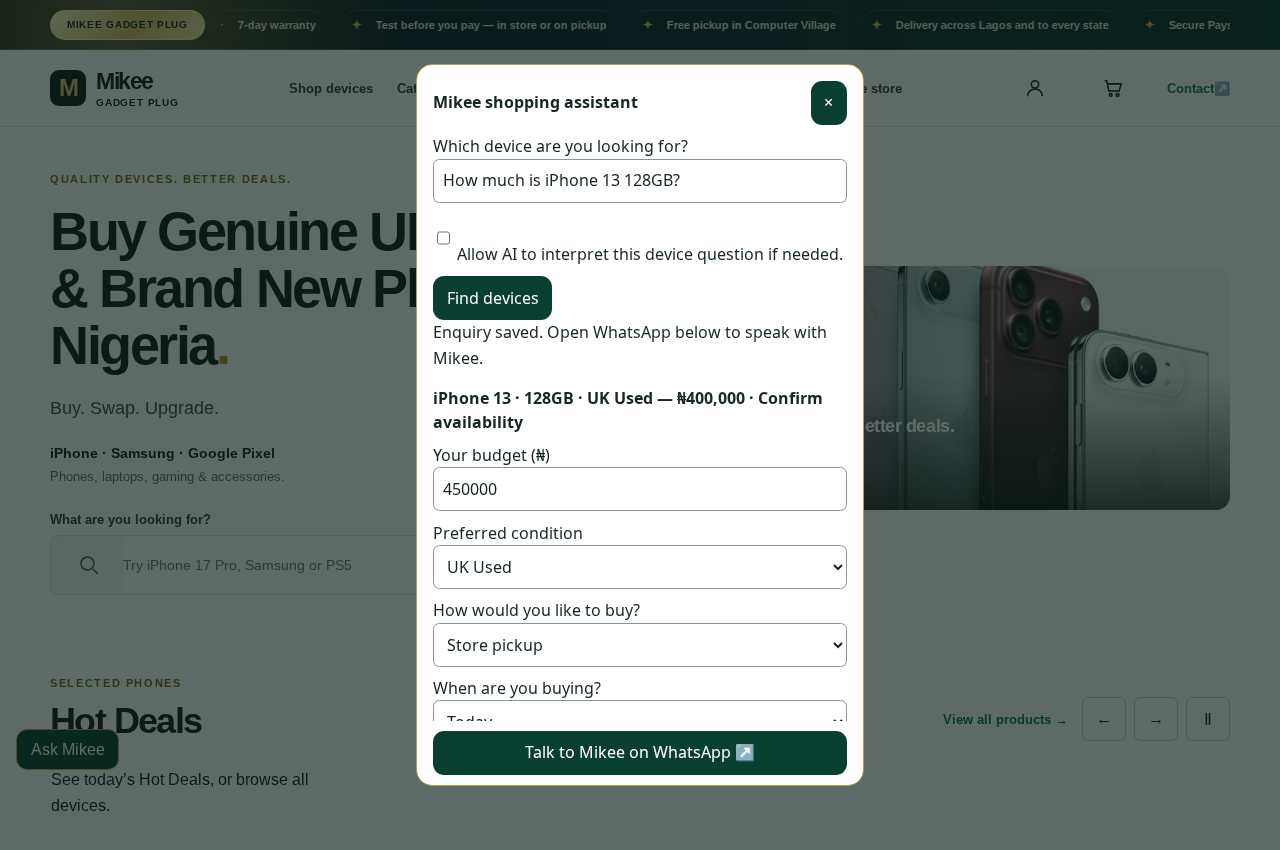
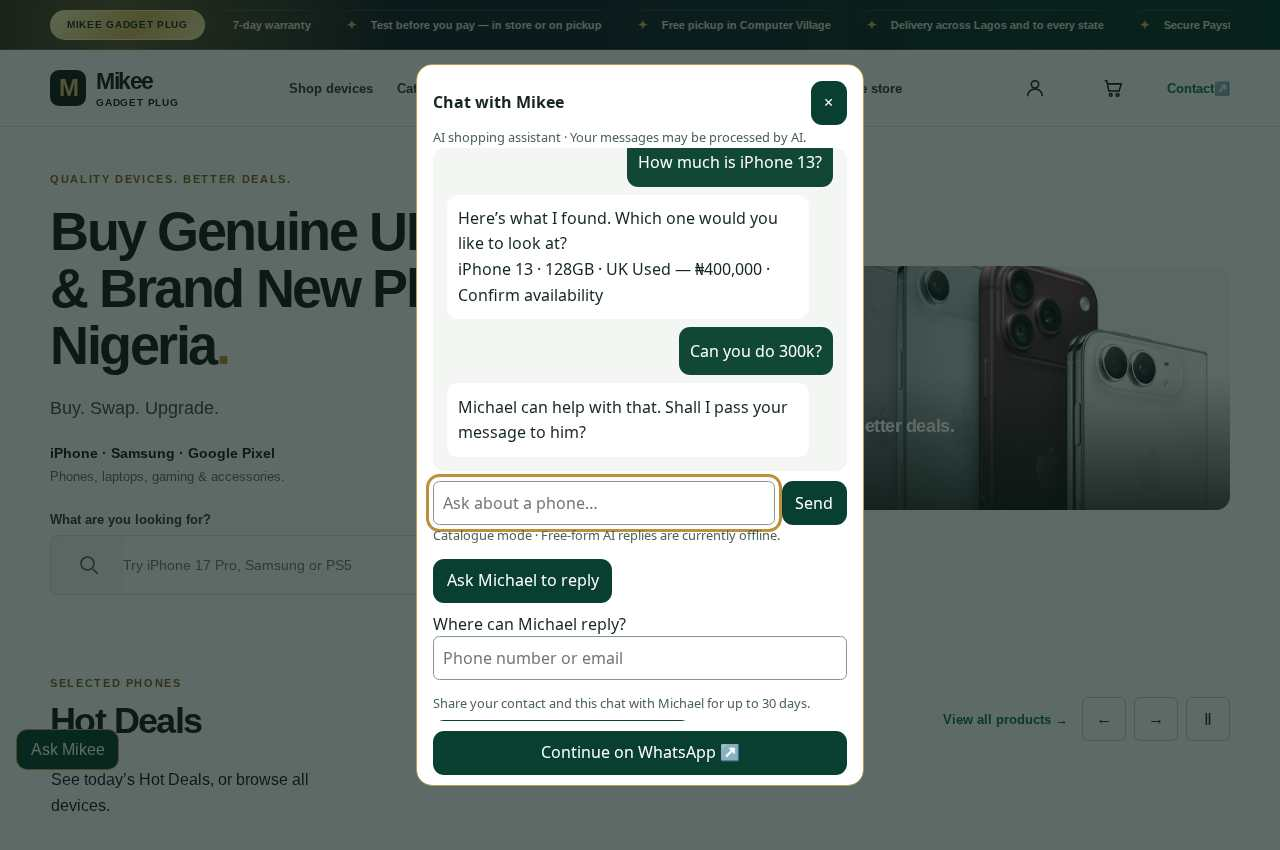
Replace qualification form with conversational shopping and owner callback requests

Changed region(s): [[0.3125, 0.0918, 0.6875, 0.9176], [0.875, 0.4282, 0.9062, 0.4588]]

diff --git a/assets/admin.js b/assets/admin.js
@@ -219,7 +219,7 @@ leadPanel.ontoggle=async()=>{
    const article=document.createElement('article'),title=document.createElement('strong'),info=document.createElement('p'),select=document.createElement('select');
    const q=row.enquiry;
    title.textContent=q.name+' · '+row.tier+' · '+row.score+'/100';
-   info.textContent=[new Date(row.created_at).toLocaleString(),q.query,q.item.label,q.colour,q.item.stock,money(q.item.price),q.condition,q.mode,q.timeline,'Budget '+money(q.budget),q.contact].filter(Boolean).join(' | ');
+   info.textContent=[new Date(row.created_at).toLocaleString(),q.query,q.item?.label,q.colour,q.item?.stock,q.item && money(q.item.price),q.condition,q.mode,q.timeline,'Budget '+money(q.budget),q.contact,...(q.messages||[]).map(m=>m.role+': '+m.content)].filter(Boolean).join(' | ');
    select.setAttribute('aria-label','Enquiry status for '+q.name);
    for(const value of ['new','contacted','won','closed'])select.add(new Option(value,value,false,value===row.status));
    select.onchange=async()=>{select.disabled=true;try{await api('/api/admin/manage?kind=sales-leads',{method:'PATCH',body:JSON.stringify({id:row.id,status:select.value})});row.status=select.value;}catch(e){select.value=row.status;message(e.message,'error');}finally{select.disabled=false;}};

diff --git a/assets/sales-widget.css b/assets/sales-widget.css
@@ -10,3 +10,10 @@
 .sales-chat footer{position:sticky;bottom:-1rem;padding:.65rem 0}
 .sales-chat footer a{text-align:center;width:100%}
 .sales-chat [hidden]{display:none}
+.sales-thread{height:clamp(9rem,38dvh,22rem);overflow-y:auto;padding:.35rem;background:#f4f6f3;border-radius:.75rem}
+.sales-thread p{white-space:pre-line;overflow-wrap:anywhere;margin:.5rem;padding:.7rem;border-radius:.7rem;max-width:90%;background:white}
+.sales-thread .bubble-user{margin-left:auto;background:#104835;color:white;width:fit-content}
+.sales-compose{display:flex;gap:.4rem;margin-top:.65rem}
+.sales-compose input{min-width:0}
+.sales-mode,.sales-chat small{font-size:.8rem;color:#4b6258}
+.sales-share button{margin-top:.4rem}

diff --git a/docs/sales-assistant/README.md b/docs/sales-assistant/README.md
@@ -1,12 +1,11 @@
-# Sales assistant preview
-Open the storefront, select **Ask Mikee**, search a device, choose a catalogue variant, and enter buying preferences. WhatsApp works before qualification and opens a draft on the existing business number. The customer sends it. Saving to the admin inbox requires explicit consent. The owner can review the original device question, chosen answer and qualification details in **Admin → Sales assistant enquiries** and update the status.
+# Ask Mikee
+Open **Ask Mikee** and type a question in English or Pidgin. Chat history stays in the open page. The server uses up to 16 recent messages per reply. The model handles tone and follow-ups. Prices and availability are shown in cards from the shop catalogue. Customers can open WhatsApp at any time.
 
-## Preview configuration
-Use an isolated Supabase preview database with existing store migrations, a catalogue, owner access and pg_cron available. Apply supabase/migrations/20261121183000_sales_assistant.sql there. Use the existing server-only SUPABASE_URL, SUPABASE_SERVICE_ROLE_KEY and SHOP_ORIGIN in the preview environment. Check the hourly mikee-sales-retention job in cron.job and its run history. It removes 30-day-old leads at the next hourly run.
+## Preview setup
+Use an isolated Supabase database with the shop schema and its catalogue. Apply supabase/migrations/20261121183000_sales_assistant.sql and verify the pg_cron retention job. Configure the existing server-only SUPABASE_URL, SUPABASE_SERVICE_ROLE_KEY and SHOP_ORIGIN in Vercel Preview. The assistant reuses the existing catalogue function.
 
-The default external AI spend is zero. After separate spending approval only, configure OPENAI_API_KEY and SALES_AI_APPROVED=true as server-only environment variables. A shopper must also opt in. Only the initial question is sent. The fixed model is gpt-4.1-nano, with a 180-character input, 32 output tokens and a shared lifetime allowance of 100 attempted requests per database. Never reset the counter as part of routine deployment. Before enabling, verify provider pricing, exchange rate, prepaid minimum and any hosting charges fit the remaining ₦10,000 budget. Keep the feature off if these costs are unknown. Search, qualification and WhatsApp work with AI off.
+AI is off until spending approval. To enable it after approval, configure OPENAI_API_KEY and SALES_AI_APPROVED=true on the server. The fixed model is gpt-4.1-nano. Each chat completion has a 160-output-token ceiling and the database atomically caps the pilot at 100 attempted completions. Do not reset the counter automatically. Verify the account's remaining prepaid balance, exchange rate and charges before activation. If AI or the preview database is unavailable, the widget labels its catalogue-only fallback.
 
-The server uses shop_deal_catalogue and the storefront price function for every quote and rechecks the variant and price at save. Unknown stock is shown as “Confirm availability”. Lead scores combine a selected device (25), budget covering its price (25), condition preference (10) and timeline (0–40). Hot starts at 75 and warm at 45. Human contact is available at every score. The inbox shows the newest 100 saved enquiries.
+Negotiations, complaints and requests for a person offer a callback. Customers confirm sharing the conversation and provide a reply contact. Open **Admin → Sales assistant enquiries** to see the transcript and update the lead status. The database removes leads older than 30 days during the hourly retention run. For owner email alerts enable SALES_NOTIFY_ENABLED=true with the existing Resend sender and an approved budget. Owner alerts are capped at 20 per day. Without email, a successful save is acknowledged as an inbox request. If saving fails, WhatsApp remains available.
 
-## Verification
-Run npm ci and npm run check. Screenshots use fictional local test data. Hosted preview acceptance requires the preview migration and catalogue, a real owner session, and testing on a WhatsApp-enabled device. Optional paid inference requires approval. No payment settings are involved.
+Run npm ci and npm run check for regression coverage. The mobile and desktop screenshots use simulated catalogue data. Hosted AI and email delivery require the corresponding configuration and were not activated during development.
